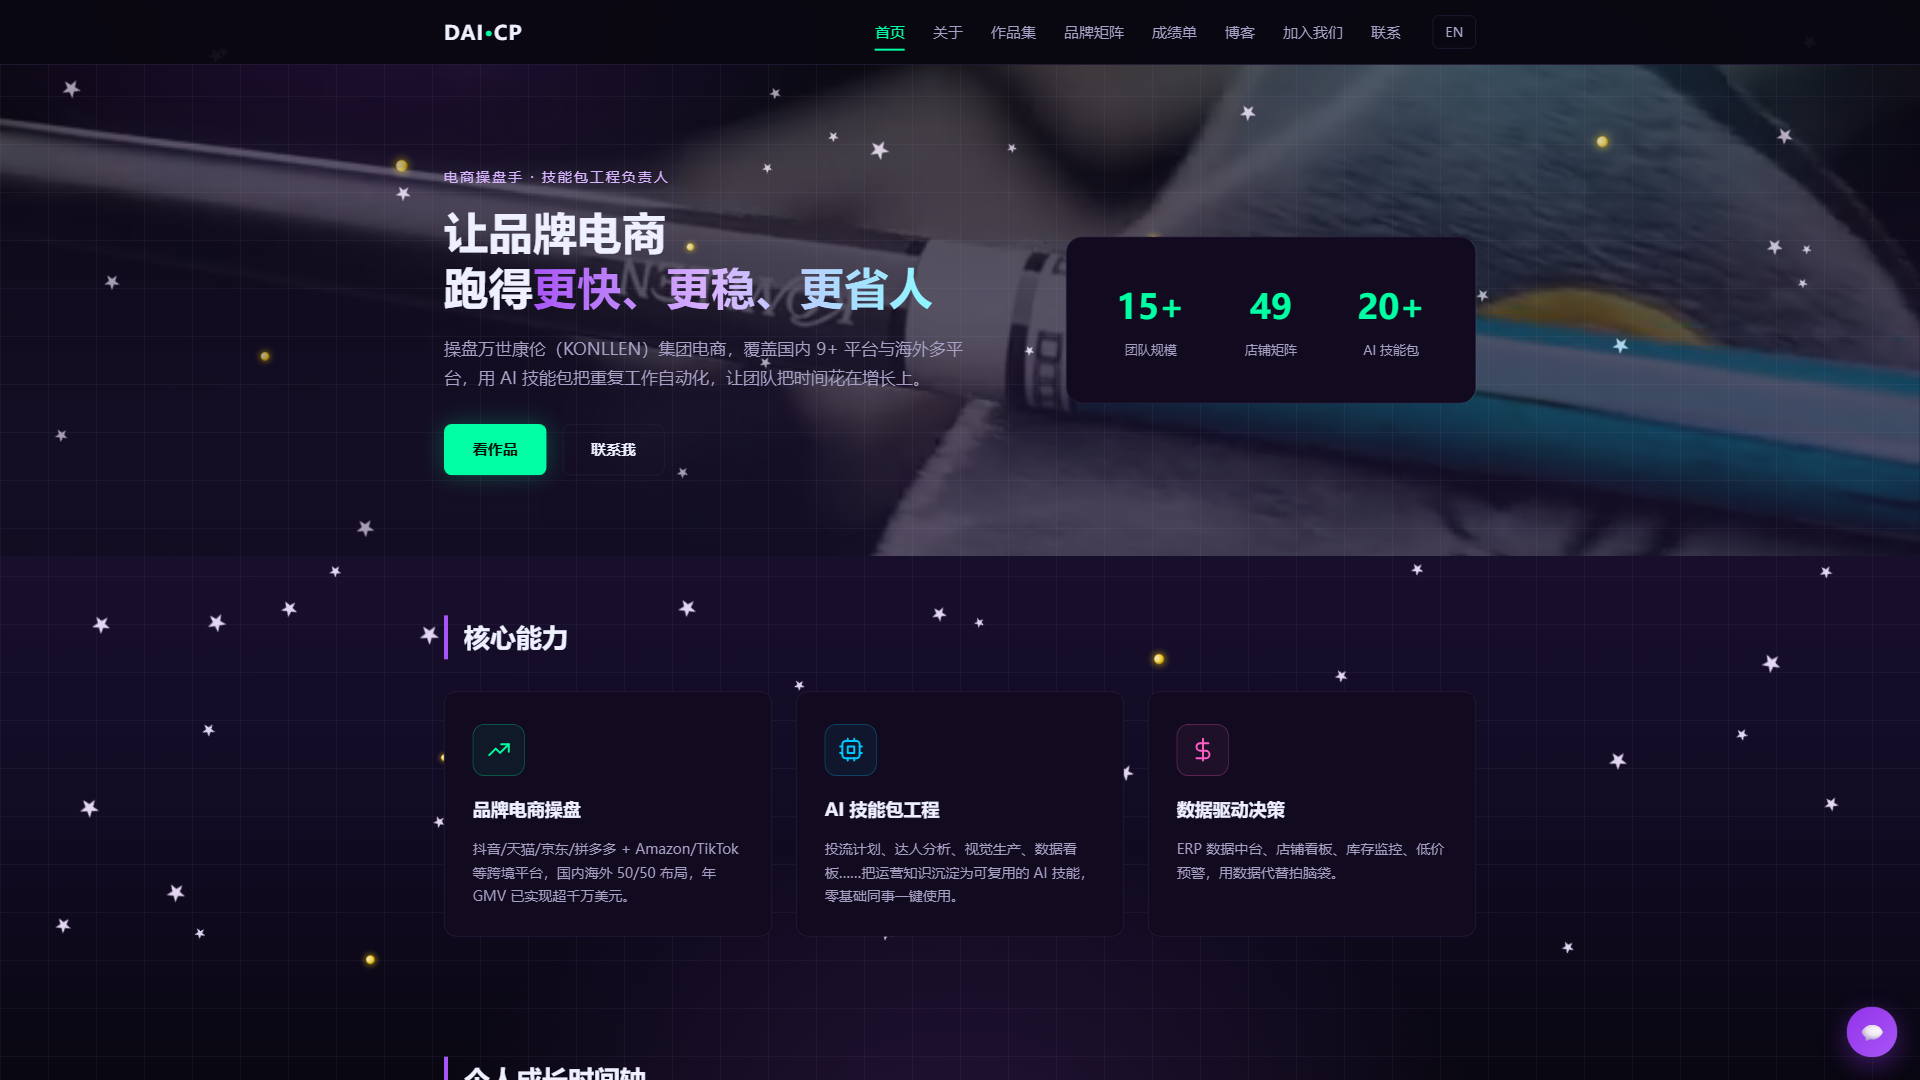
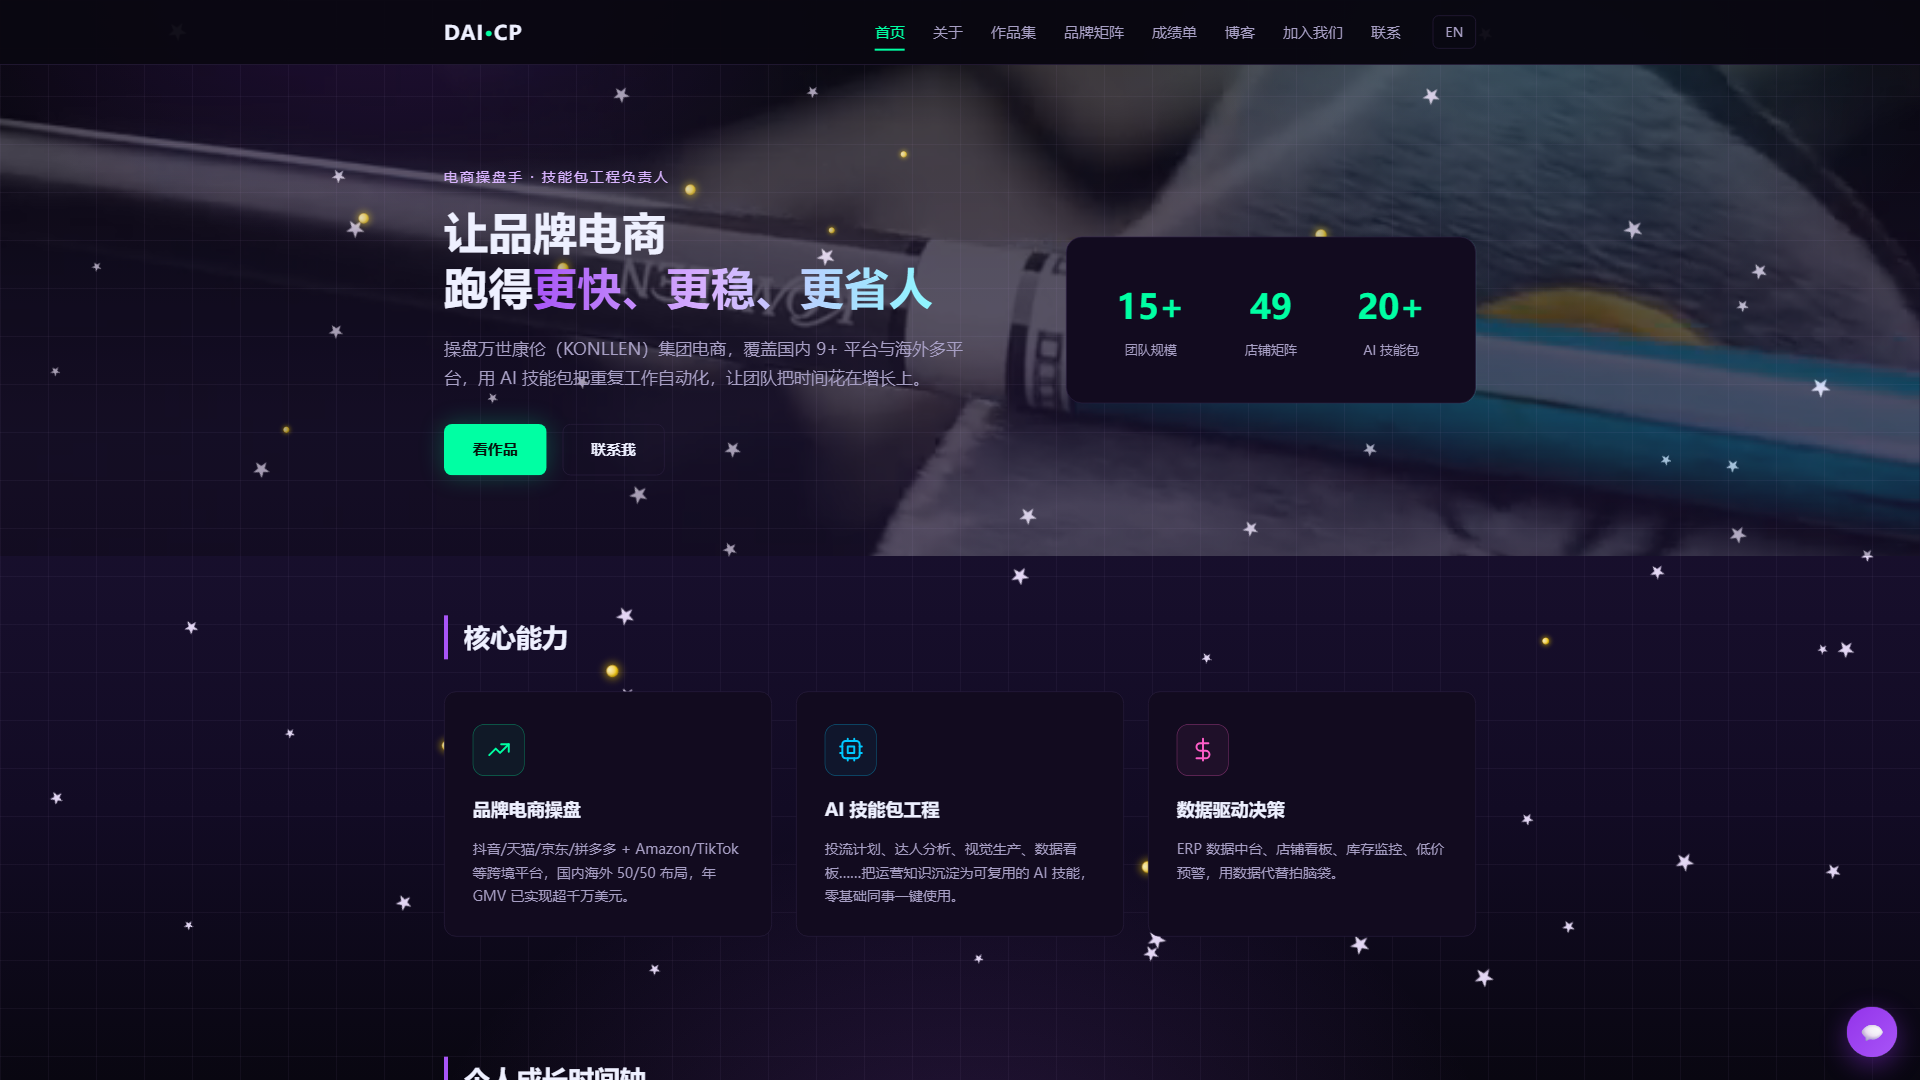
v1.6.16 流星/金币可见性修复：opacity:0 从 .lf/.lf-coin 内层迁至 .lf-wrap 外层
v1.6.15 层级对调后 opacity 动画在 .lf-wrap 外层，但 opacity:0 静态还留在
.lf/.lf-coin 内层——内层静态值无人覆盖，导致星/币永远不可见。
本次修复：opacity:0 移到 .lf-wrap（动画帧正常驱动透明度，delay 期 wrap
opacity:0 + 元素 top:-10% 双保险隐藏）；reduced-motion 时 .lf-wrap 动画
被关掉，需 !important opacity:0.95 覆盖静态 opacity:0。

验证：
- trajectory: 60星 + 12币；wrap 全是纯位移；inner 全含 rotate/scale；
  方向均值 102.9°/std 1.4°（左下斜落，与 v1.6.10 一致）
- reduced-motion: 72/72 元素静态可见（修复前为 0/72）
- normal mode: 动画运行中的 wrap 显示正常 fade in/out

同步：lightfall.js / verify / shot_lightfall 顶部版本号更新到 v1.6.16。

diff --git a/css/style.css b/css/style.css
@@ -531,9 +531,15 @@ body::after {
 }
 
 .about-avatar img {
-  max-width: 75%;
-  max-height: 75%;
-  filter: invert(1);
+  /* v1.6.17：金狮 K 标自带深色背景填满圆角卡片
+     旧版 gray 狮子需 invert(1) 在深色页面才可见；金标已是目标色，
+     反转会把金变蓝、绿变品红，反而失真。直接 object-fit:cover 撑满 */
+  max-width: 100%;
+  max-height: 100%;
+  width: 100%;
+  height: 100%;
+  object-fit: cover;
+  object-position: center;
 }
 
 .about-intro p {
@@ -1316,13 +1322,16 @@ body::after {
    不参与动画帧重算）；wrap 只做定位 + 全局位移动画。位移在 wrap（父层）先于
    inner 的 rotate/scale 应用 → 最终变换 T·R·S·p，与 v1.6.10 原始版
    （translateY translateX rotate scale 同层）数学一致，方向不再被随机角度扭曲、
-   位移量不再被 scale 放大。wrap 不再需要显式尺寸（锚点由 .lf 自身 16×16 承担）。 */
+   位移量不再被 scale 放大。wrap 不再需要显式尺寸（锚点由 .lf 自身 16×16 承担）。
+   v1.6.16 可见性修复：opacity 动画在 wrap 上，opacity:0 必须放在 wrap（动画帧覆盖它），
+   不能留在 .lf/.lf-coin 内层——否则内层静态 opacity:0 无人覆盖，星/币永远不可见。 */
 .lf-wrap {
   position: absolute;
   top: -10%;
   left: 0;
   will-change: transform;
   pointer-events: none;
+  opacity: 0;
 }
 
 .lf {
@@ -1338,7 +1347,6 @@ body::after {
   clip-path: polygon(50% 0%, 62% 34%, 98% 35%, 69% 56%, 79% 91%, 50% 70%, 21% 91%, 31% 56%, 2% 35%, 38% 34%);
   /* 星形周围的紫色光晕（box-shadow 仍按元素 box 渲染，形成星型发光感） */
   box-shadow: 0 0 12px 4px rgba(216, 180, 254, 0.95), 0 0 24px 8px rgba(168, 85, 247, 0.4);
-  opacity: 0;
 }
 
 .lf::after {
@@ -1369,7 +1377,6 @@ body::after {
   box-shadow:
     inset 0 -1px 1.5px rgba(139, 105, 20, 0.5),
     0 0 6px 1.5px rgba(255, 215, 0, 0.45);
-  opacity: 0;
 }
 
 @keyframes lf-fall {
@@ -1402,12 +1409,11 @@ body::after {
     display: block;
   }
   /* v1.6.15：动画在 .lf-wrap 外层，reduced-motion 时关掉 wrap 动画、
-     用 JS 注入的 --lf-top 静态散布；.lf 内层静态 rotate/scale 已内联，无需处理 */
+     用 JS 注入的 --lf-top 静态散布；.lf 内层静态 rotate/scale 已内联，无需处理。
+     v1.6.16：opacity:0 在 wrap 上，animation:none 后必须用 !important 覆盖为可见 */
   .lf-wrap {
     top: var(--lf-top, 20%) !important;
     animation: none !important;
-  }
-  .lf {
     opacity: 0.95 !important;
   }
 }

diff --git a/js/lightfall.js b/js/lightfall.js
@@ -11,7 +11,13 @@
       位移跑进旋转坐标系：运动方向被随机角度扭曲、位移量被 scale 放大——与 v1.6.10
       原始设定（单元素动画 translate 全局方向 + rotate/scale 只影响自身）不符。
       对调后：wrap 的 translate 是全局方向（不受 rotate/scale 影响），inner 的
-      rotate/scale 只作用于星形自身，视觉与 v1.6.10 完全一致，性能收益保留。 */
+      rotate/scale 只作用于星形自身，视觉与 v1.6.10 完全一致，性能收益保留。
+   v1.6.16 可见性修复：v1.6.15 把 opacity:0 静态留在 .lf/.lf-coin 内层，但 opacity
+      动画已迁移到 .lf-wrap 外层（keyframes 0%→100% 控透明度），内层静态 opacity:0
+      无人覆盖 → 星/币永远不可见。修复：opacity:0 从 .lf/.lf-coin 移除，放到 .lf-wrap
+      ——动画帧正常驱动 wrap 透明度，delay 期 wrap opacity:0 + 元素 top:-10% 双保险
+      隐藏。reduced-motion 时 .lf-wrap animation:none → 必须 !important opacity:0.95
+      覆盖静态 opacity:0，否则 60+12 元素全黑。 */
 (function () {
   var container = document.getElementById("lightfall");
   if (!container) {

diff --git a/tools/verify_lightfall_trajectory.js b/tools/verify_lightfall_trajectory.js
@@ -1,9 +1,10 @@
-/* verify_lightfall_trajectory.js — v1.6.15 流星轨迹验证
-   验证目标：
+/* verify_lightfall_trajectory.js — v1.6.16 流星轨迹验证
+   验证目标（v1.6.15 层级对调 + v1.6.16 可见性修复后）：
    1. .lf-wrap（外层）动画 transform 必须是纯位移（无 rotate/scale 分量）
    2. .lf（内层）transform 是静态 rotate+scale（星形自身朝向）
    3. 所有星星的位移方向一致（全局方向，不被各自角度扭曲）
-   4. 位移量不被 scale 放大（等时长内不同 scale 的星位移一致） */
+   4. 位移量不被 scale 放大（等时长内不同 scale 的星位移一致）
+   5. .lf 内层无 opacity:0（v1.6.16 修复）——inner.getComputedStyle.opacity 默认 1 */
 const puppeteer = require('puppeteer-core');
 const CHROME = 'C:/Program Files/Google/Chrome/Application/chrome.exe';
 const BASE = 'http://127.0.0.1:8000';

diff --git a/tools/shot_lightfall.js b/tools/shot_lightfall.js
@@ -1,5 +1,6 @@
-/* shot_lightfall.js — v1.6.15 流星/金币视觉效果截图
-   桌面 1920x1080 正常态 + prefers-reduced-motion 静态态 各截一张 */
+/* shot_lightfall.js — v1.6.16 流星/金币视觉效果截图
+   桌面 1920x1080 正常态 + prefers-reduced-motion 静态态 各截一张
+   v1.6.16 可见性修复后：reduced-motion 必须 72/72 元素全部可见 */
 const puppeteer = require('puppeteer-core');
 const CHROME = 'C:/Program Files/Google/Chrome/Application/chrome.exe';
 const BASE = 'http://127.0.0.1:8000';
